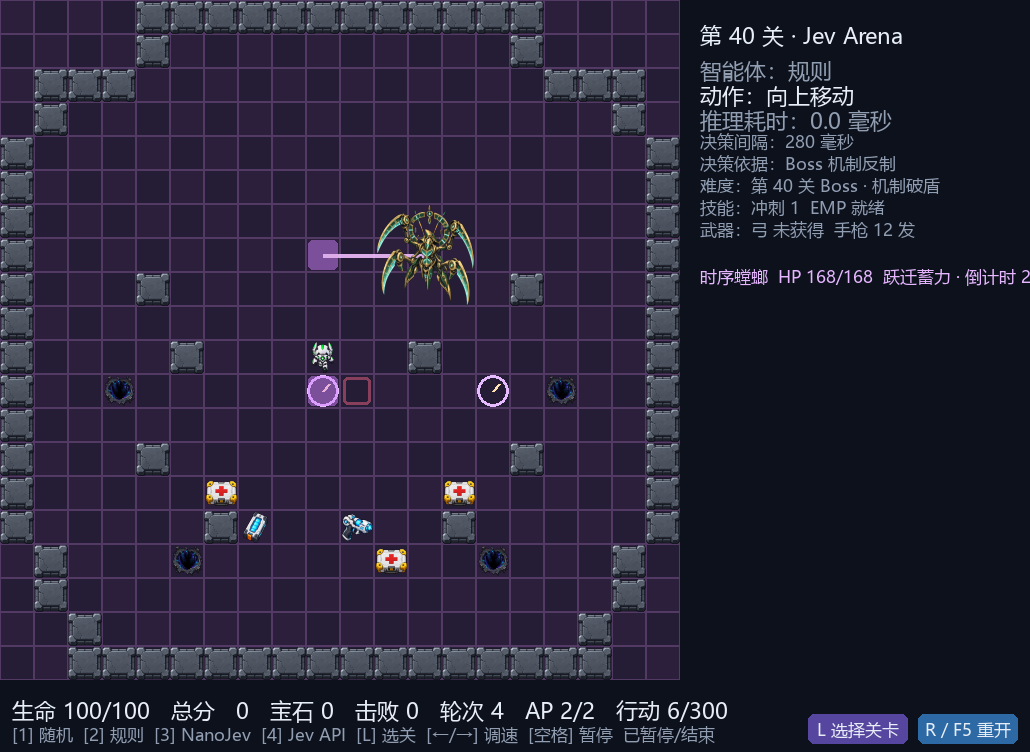
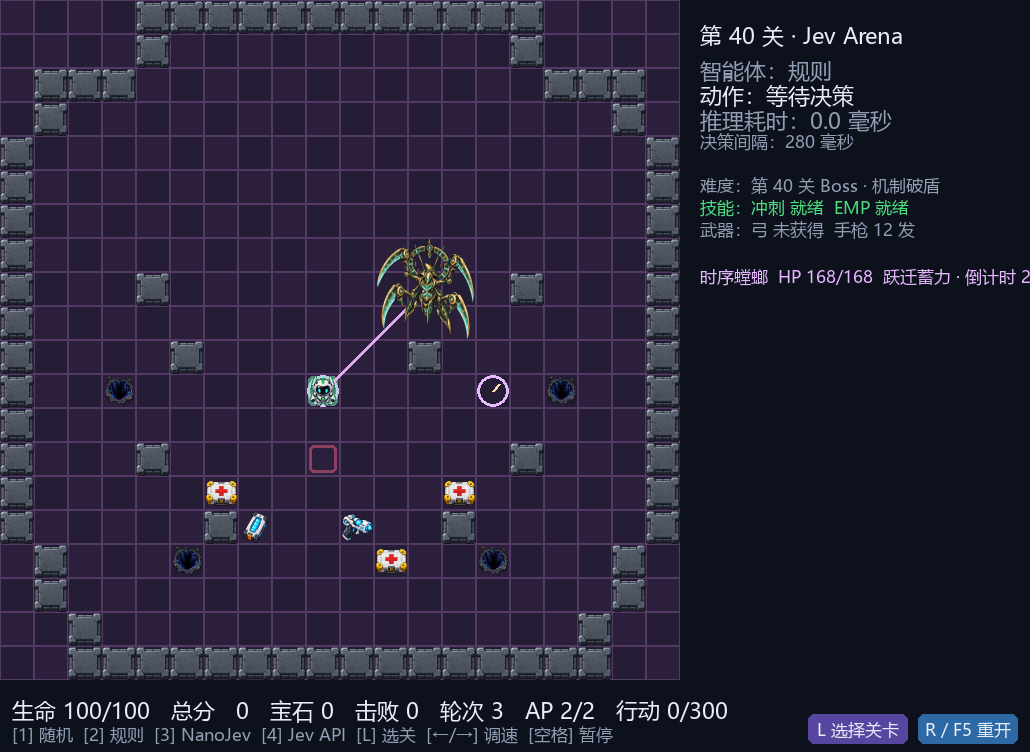
Make storm and mantis bosses more mobile

diff --git a/tests/test_boss.py b/tests/test_boss.py
@@ -232,6 +232,22 @@ class PrismBossTests(unittest.TestCase):
 
 
 class StormBossTests(unittest.TestCase):
+    def test_moves_to_distinct_chain_and_surge_positions_before_aim(self):
+        env = ArenaEnv(campaign_config(30))
+        env.player.position = (10, 10)
+        events = []
+        env._resolve_storm(env.boss, events)
+        self.assertIn("boss_move:10:5:8:5", events)
+        self.assertEqual(env.boss.target, (10, 10))
+        events.clear()
+        env._resolve_storm(env.boss, events)
+        self.assertEqual(env.boss.position, (8, 5))
+        self.assertFalse(any(event.startswith("boss_move:") for event in events))
+        events.clear()
+        env._resolve_storm(env.boss, events)
+        self.assertIn("boss_move:8:5:11:6", events)
+        self.assertIn("storm_aim:surge:10:10", events)
+
     def test_staggered_room_chain_warning_and_grounding(self):
         env = ArenaEnv(campaign_config(30))
         self.assertFalse(env.gems)
@@ -310,11 +326,11 @@ class ChronoBossTests(unittest.TestCase):
         right.player.position = (14, 11)
         right.step(Action.WAIT)
         right.step(Action.WAIT)
-        self.assertEqual(right.boss.position, (11, 7))
+        self.assertEqual(right.boss.position, (11, 8))
         self.assertEqual(right.boss.phase, "slash")
         right.step(Action.WAIT)
         right.step(Action.WAIT)
-        self.assertEqual(right.boss.leap_target, (14, 7))
+        self.assertEqual(right.boss.leap_target, (14, 11))
 
         left = ArenaEnv(campaign_config(40))
         left.round = 3
@@ -322,11 +338,11 @@ class ChronoBossTests(unittest.TestCase):
         left.boss.position = (9, 7)
         left.step(Action.WAIT)
         left.step(Action.WAIT)
-        self.assertEqual(left.boss.position, (11, 7))
+        self.assertEqual(left.boss.position, (11, 8))
         self.assertEqual(left.boss.phase, "flank")
         left.step(Action.WAIT)
         left.step(Action.WAIT)
-        self.assertEqual(left.boss.position, (12, 7))
+        self.assertEqual(left.boss.position, (12, 8))
         self.assertEqual(left.boss.phase, "slash")
 
     def test_room_leap_warning_and_anchor_counter(self):
@@ -335,31 +351,29 @@ class ChronoBossTests(unittest.TestCase):
         self.assertTrue((env.time_anchors | env.medkits | env.energy_cells) <= env._reachable_cells())
         self.assertIn("Boss chrono", encode_state(env))
         env.round = 3
-        env.player.position = (9, 11)
+        env.player.position = (9, 13)
         env.step(Action.WAIT)
         flank = env.step(Action.WAIT)
-        self.assertIn("boss_move:10:7:12:7", flank.events)
-        self.assertEqual(env.boss.slash_target, (9, 11))
+        self.assertIn("boss_move:10:7:12:8", flank.events)
+        self.assertEqual(env.boss.slash_target, (9, 13))
         self.assertIn(("chrono_mantis/slash", 24), env.imminent_threats())
-        env.step(Action.MOVE_S)
-        slash = env.step(Action.MOVE_S)
-        self.assertIn("chrono_leap_aim:9:7", slash.events)
-        self.assertEqual(env.boss.leap_countdown, 2)
-        self.assertEqual(env.boss.position, (12, 7))
-        self.assertEqual(env._distance(env.boss.position, env.boss.leap_target), 3)
         env.step(Action.DASH_N)
-        env.step(Action.WAIT)
+        slash = env.step(Action.WAIT)
+        self.assertIn("chrono_leap_aim:9:11", slash.events)
+        self.assertEqual(env.boss.leap_countdown, 2)
         self.assertEqual(env.boss.position, (12, 8))
-        self.assertEqual(env._distance(env.boss.position, env.boss.leap_target), 4)
+        env.step(Action.WAIT)
+        env.step(Action.WAIT)
+        self.assertEqual(env.boss.position, (12, 7))
         env.step(Action.WAIT)
         leap = env.step(Action.WAIT)
         self.assertIn("chrono_anchor", leap.events)
         self.assertIn("boss_shield_break", leap.events)
-        self.assertEqual(env.boss.position, (9, 7))
+        self.assertNotEqual(env.boss.position, env.player.position)
         self.assertEqual(env.player.hp, 100)
 
 
-    def test_occupied_leap_landing_is_cancelled_not_retargeted(self):
+    def test_occupied_leap_landing_hits_player_without_overlap(self):
         env = ArenaEnv(campaign_config(40))
         env.round = 3
         env.player.position = (9, 7)
@@ -370,11 +384,28 @@ class ChronoBossTests(unittest.TestCase):
         env.boss.slash_target = (10, 11)
         env.step(Action.WAIT)
         result = env.step(Action.WAIT)
-        self.assertIn("chrono_leap_cancel", result.events)
-        self.assertEqual(env.boss.position, (12, 7))
-        self.assertEqual(env.player.hp, 100)
+        self.assertIn("damage:chrono_leap:30", result.events)
+        self.assertNotEqual(env.boss.position, env.player.position)
+        self.assertEqual(env.player.hp, 70)
 
-    def test_slash_and_delayed_echo_match_warning(self):
+    def test_jump_targets_player_cell_then_lands_there_if_dodged(self):
+        env = ArenaEnv(campaign_config(40))
+        env.boss.phase = "slash"
+        env.boss.slash_target = (9, 11)
+        env.player.position = (10, 13)
+        events = []
+        env._resolve_chrono(env.boss, events)
+        self.assertEqual(env.boss.leap_target, (10, 13))
+        self.assertIn("chrono_leap_aim:10:13", events)
+        env.player.position = (11, 13)
+        env._resolve_chrono(env.boss, [])
+        events = []
+        env._resolve_chrono(env.boss, events)
+        self.assertEqual(env.boss.position, (10, 13))
+        self.assertEqual(env.player.hp, 100)
+        self.assertIn("chrono_leap:10:13", events)
+
+    def test_slash_and_delayed_jump_match_warning(self):
         env = ArenaEnv(campaign_config(40))
         env.round = 3
         env.boss.phase = "slash"
@@ -383,11 +414,11 @@ class ChronoBossTests(unittest.TestCase):
         env.step(Action.WAIT)
         slash = env.step(Action.WAIT)
         self.assertIn("damage:chrono_slash:24", slash.events)
-        self.assertIn(("chrono_mantis/echo", 18), env.imminent_threats())
+        self.assertIn(("chrono_mantis/leap", 30), env.imminent_threats())
         for _ in range(4):
             echo = env.step(Action.WAIT)
-        self.assertIn("damage:chrono_echo:18", echo.events)
-        self.assertEqual(env.player.hp, 58)
+        self.assertIn("damage:chrono_leap:30", echo.events)
+        self.assertEqual(env.player.hp, 46)
 
     def test_default_hybrid_policy_finishes_mantis_without_damage(self):
         env = ArenaEnv(campaign_config(40))
@@ -400,7 +431,7 @@ class ChronoBossTests(unittest.TestCase):
             events.extend(env.step(choice).events)
         self.assertTrue(env.done)
         self.assertEqual(env.player.hp, 100)
-        self.assertEqual(events.count("chrono_anchor"), 3)
+        self.assertGreaterEqual(events.count("chrono_anchor"), 2)
         self.assertIn("chrono_phase_two", events)
         self.assertIn("chrono_anchor_shift", events)
         self.assertIn("boss_defeated", events)
@@ -419,7 +450,7 @@ class ChronoBossTests(unittest.TestCase):
         self.assertTrue(env.time_anchors <= env._reachable_cells())
 
         env.boss.phase = "leap"
-        env.boss.leap_target = (9, 7)
+        env.boss.leap_target = (9, 13)
         env.boss.leap_countdown = 1
         env.player.position = (9, 13)
         env.step(Action.WAIT)

diff --git a/arena/env.py b/arena/env.py
@@ -1028,6 +1028,16 @@ class ArenaEnv:
             return 0.0
         if boss.target is None:
             boss.attack_kind = "chain" if boss.attacks % 2 == 0 else "surge"
+            previous = boss.position
+            player_x = self.player.position[0]
+            goal_x = min(12, max(8, player_x + (-2 if boss.attack_kind == "chain" else 2)))
+            speed = 2 if boss.attack_kind == "chain" else 3
+            x = boss.position[0] + max(-speed, min(speed, goal_x - boss.position[0]))
+            destination = (x, 5 if boss.attack_kind == "chain" else 6)
+            if destination != self.player.position:
+                boss.position = destination
+            if boss.position != previous:
+                events.append(f"boss_move:{previous[0]}:{previous[1]}:{boss.position[0]}:{boss.position[1]}")
             boss.target = self.player.position
             events.append(f"storm_aim:{boss.attack_kind}:{boss.target[0]}:{boss.target[1]}")
             return 0.0
@@ -1051,11 +1061,6 @@ class ArenaEnv:
                 reward += self._damage_entity(self.player, damage, events, "storm_surge")
         boss.attacks += 1
         boss.target = None
-        if not boss.exposed_rounds:
-            previous = boss.position
-            boss.position = ((10, 11, 9)[boss.attacks % 3], 5)
-            if previous != boss.position:
-                events.append(f"boss_move:{previous[0]}:{previous[1]}:{boss.position[0]}:5")
         return reward
 
     def _resolve_chrono(self, boss: ChronoMantis, events: list[str]) -> float:
@@ -1077,9 +1082,10 @@ class ArenaEnv:
             launch_x = 12 if self.chrono_landing_x() == 9 else 11
             delta = max(-2, min(2, launch_x - boss.position[0]))
             x = boss.position[0] + delta
-            y = (8 if boss.position[1] == 7 else 7) if not delta else boss.position[1]
+            goal_y = min(9, max(7, self.player.position[1] - 3))
+            y = boss.position[1] + (goal_y > boss.position[1]) - (goal_y < boss.position[1])
             if (x, y) == self.player.position:
-                y = 8 if y == 7 else 7
+                y = boss.position[1]
             boss.position = (x, y)
             boss.moves += 1
             if x != launch_x:
@@ -1096,7 +1102,7 @@ class ArenaEnv:
             events.append(f"chrono_slash:{target[0]}:{target[1]}")
             if self._distance(self.player.position, target) <= 1:
                 reward += self._damage_entity(self.player, boss.slash_damage, events, "chrono_slash")
-            boss.leap_target = (self.chrono_landing_x(), 7)
+            boss.leap_target = self.player.position
             boss.leap_countdown = 2
             boss.phase = "leap"
             events.append(f"chrono_leap_aim:{boss.leap_target[0]}:{boss.leap_target[1]}")
@@ -1104,27 +1110,32 @@ class ArenaEnv:
         if boss.leap_countdown > 1:
             boss.leap_countdown -= 1
             previous = boss.position
-            boss.position = (boss.position[0], 8)
+            boss.position = (boss.position[0], 7 if boss.position[1] >= 8 else 8)
             if previous != boss.position:
-                events.append(f"boss_move:{previous[0]}:{previous[1]}:{boss.position[0]}:8")
+                events.append(f"boss_move:{previous[0]}:{previous[1]}:{boss.position[0]}:{boss.position[1]}")
             events.append(f"chrono_leap_charge:{boss.leap_target[0]}:{boss.leap_target[1]}")
             return 0.0
-        if self.player.position == boss.leap_target:
-            boss.phase = "flank"
-            boss.slash_target = boss.leap_target = None
-            boss.leap_countdown = 0
-            events.append("chrono_leap_cancel")
-            return 0.0
         previous = boss.position
-        boss.position = boss.leap_target
+        target = boss.leap_target
+        occupied = self.player.position == target
+        if occupied:
+            neighbors = (self.add(target, direction) for direction in DIRECTIONS)
+            safe = (cell for cell in neighbors if self.in_bounds(cell) and
+                    cell not in self.walls | self.pits | self.fires | self.spikes and
+                    cell != self.player.position)
+            boss.position = min(safe, key=lambda cell: (self._distance(cell, previous), cell), default=previous)
+        else:
+            boss.position = target
         boss.moves += 1
-        events.append(f"boss_move:{previous[0]}:{previous[1]}:{boss.position[0]}:7")
-        events.append(f"chrono_leap:{boss.position[0]}:7")
+        events.append(f"boss_move:{previous[0]}:{previous[1]}:{boss.position[0]}:{boss.position[1]}")
+        events.append(f"chrono_leap:{target[0]}:{target[1]}")
         reward = 0.0
-        if self.player.position in self.time_anchors and self.player.position[0] == boss.position[0]:
+        if occupied and target in self.time_anchors:
             boss.exposed_rounds = 4
             events.extend(("chrono_anchor", "chrono_echo_replay", "boss_shield_break"))
             reward += 15
+        elif occupied:
+            reward += self._damage_entity(self.player, boss.leap_damage, events, "chrono_leap")
         elif self.player.position == boss.slash_target:
             reward += self._damage_entity(self.player, boss.echo_damage, events, "chrono_echo")
             events.append(f"chrono_echo:{boss.slash_target[0]}:{boss.slash_target[1]}")
@@ -1908,8 +1919,11 @@ class ArenaEnv:
         if isinstance(self.boss, ChronoMantis):
             if self.boss.phase == "slash" and self._distance(position, self.boss.slash_target) <= 1:
                 threats.append(("chrono_mantis/slash", self.boss.slash_damage))
-            if self.boss.phase == "leap" and position == self.boss.slash_target:
-                threats.append(("chrono_mantis/echo", self.boss.echo_damage))
+            if self.boss.phase == "leap":
+                if position == self.boss.leap_target and position not in self.time_anchors:
+                    threats.append(("chrono_mantis/leap", self.boss.leap_damage))
+                elif position == self.boss.slash_target and position != self.boss.leap_target:
+                    threats.append(("chrono_mantis/echo", self.boss.echo_damage))
         if isinstance(self.boss, VoidAngler) and self.boss.attack_kind == "beam" and self.boss.target:
             if self._distance(position, self.boss.target) <= 1:
                 threats.append(("void_angler/beam", self.boss.beam_damage))

diff --git a/arena/renderer.py b/arena/renderer.py
@@ -944,13 +944,14 @@ class ArenaRenderer:
                 color = (255, 105, 138, 125)
             elif boss.phase == "leap" and boss.leap_target:
                 target = boss.leap_target
-                cells = [target, (target[0], 11)]
+                cells = [target]
                 color = (208, 130, 255, 125)
             else:
                 return
             for cell in cells:
                 if env.in_bounds(cell):
-                    self.pg.draw.rect(overlay, color,
+                    tint = (116, 239, 188, 135) if boss.phase == "leap" and cell in env.time_anchors else color
+                    self.pg.draw.rect(overlay, tint,
                                       (cell[0] * self.CELL + 2, cell[1] * self.CELL + 2,
                                        self.CELL - 4, self.CELL - 4), border_radius=5)
             if boss.phase == "leap":
@@ -1137,10 +1138,10 @@ class ArenaRenderer:
             elif event == "chrono_phase_two": labels.append("时序螳螂进入二阶段！")
             elif event == "chrono_anchor_shift": labels.append("时间锚移到后方通道！")
             elif event.startswith("chrono_slash:"): labels.append("时序螳螂近斩！")
-            elif event.startswith("chrono_leap_aim:"): labels.append("跃迁落点已锁定：去对应时间锚！")
+            elif event.startswith("chrono_leap_aim:"): labels.append("跳杀锁定当前位置！离开紫格，或用时间锚反制！")
             elif event.startswith("chrono_leap_charge:"): labels.append("跃迁蓄力：落点不再改变！")
             elif event.startswith("chrono_leap:"): labels.append("时序螳螂跃迁！")
-            elif event == "chrono_leap_cancel": labels.append("落点被占据：跃迁取消！")
+            elif event.startswith("damage:chrono_leap:"): labels.append("跳杀命中！")
             elif event == "chrono_anchor": labels.append("时间锚已启动！")
             elif event == "chrono_echo_replay": labels.append("残影回放击中 Boss！")
             elif event.startswith("void_aim:mine:"): labels.append("引力雷预警：站稳紫色节点吸离装甲！")

diff --git a/arena/observation.py b/arena/observation.py
@@ -91,7 +91,8 @@ def encode_state(env: ArenaEnv) -> str:
                 f"stage={2 if env.boss.hp <= env.boss.max_hp * 2 // 3 else 1} "
                 f"phase={env.boss.phase} slash={env.boss.slash_target or '-'} "
                 f"leap={env.boss.leap_target or '-'} anchor={sorted(env.time_anchors)} "
-                f"dmg=slash{env.boss.slash_damage}/echo{env.boss.echo_damage}.")
+                f"dmg=slash{env.boss.slash_damage}/leap{env.boss.leap_damage}/"
+                f"echo{env.boss.echo_damage}.")
     elif isinstance(env.boss, VoidAngler):
         boss = (f" Boss void@{env.boss.position} hp={env.boss.hp} armor={len(env.boss.drained_nodes)}/3 "
                 f"exposed={env.boss.exposed_rounds} {env.boss.attack_kind} aim={env.boss.target or '-'} "

diff --git a/arena/boss.py b/arena/boss.py
@@ -60,6 +60,7 @@ class ChronoMantis:
     moves: int = 0
     slash_damage: int = 24
     echo_damage: int = 18
+    leap_damage: int = 30
 
 
 @dataclass

diff --git a/JEV_ARENA_BOSS_ROADMAP.md b/JEV_ARENA_BOSS_ROADMAP.md
@@ -33,8 +33,8 @@
 | ---: | --- | --- | --- |
 | 10 | 棱镜守卫悬浮平移最多 1 格，外圈盾瓣按移动方向旋转；反射柱固定 | 小型菱形棱镜弹每次 3 枚，先显示三条细线；大招激光有实线锁定、光束扫过和反射折角 | 护盾碎出金色镜片；反射命中时紫色核心裂纹逐次加深，第三次盾瓣打开 |
 | 20 | 熔炉三头机重踏 1 格，炉头分别抬起，禁止跨越冷却阀 | 三种炉头分别吐出火球、地面熔岩波和扇形火星；地面先标明持续燃烧的格子 | 装甲泛红并喷蒸汽；每次阀门回灌熄灭一个炉头，三头熄灭后核心熄火露出 |
-| 30 | 风暴合唱环悬浮换位 1 格，外围共鸣器按导电顺序点亮 | 闪电节点逐个弹出，连锁弧线按编号显示目标顺序；落雷先显示链路，再沿链路传播 | 单次接地时对应共鸣器暗下；四柱回灌时蓝白电弧反向流入主核 |
-| 40 | 时序螳螂每敌方回合沿可行路径横切最多 2 格，每三次移动可预告后跃迁 3～4 格；起点/经过格/终点分别显示残影和落影 | 弧形斩击波沿已标记格传播；延迟残影有数字倒计时，时间锚让虚线变实线 | 常规受击出现钟摆式回弹；自身残影命中后沙漏倒转、四把镰刀垂落 |
+| 30 | 风暴合唱环在连锁雷前横移最多 2 格、雷爆前横移最多 3 格，并切换悬浮高度 | 闪电节点逐个弹出，连锁弧线按编号显示目标顺序；落雷先显示链路，再沿链路传播 | 单次接地时对应共鸣器暗下；四柱回灌时蓝白电弧反向流入主核 |
+| 40 | 时序螳螂横切最多 2 格并纵向追近；跳杀锁定玩家原位置，起点/终点分别显示残影和落影 | 近斩与跳杀各自预告；跳杀目标若为时间锚显示绿色反制格 | 常规受击出现钟摆式回弹；自身残影命中后沙漏倒转、四把镰刀垂落 |
 | 50 | 虚空钓手在固定锚点间移动 1 格，引力范围先铺设同心环 | 独立的引力雷弹体落格后倒计时，牵引方向用箭头指明；引力旋涡只在结算格出现 | 引力吸走一块装甲就露出一块亮面，第三块脱落后中央黑核收缩并暴露 |
 | 60 | 钢铁园丁沿根系滑动 1 格；藤蔓生长有种子、芽、墙三帧状态 | 种子弹先落在空格，下一轮生根；焚烧射线沿藤蔓逐段传火，危险格逐格点亮 | 热回流使根系变焦黑，第四次回流后花瓣反折露出红色核心 |
 | 70 | 镜像炽天使对称横移 1 格，复制前展示玩家上一动作图标及镜像方向 | 镜片弹以菱形弹体沿折射线飞行；复制近战和 Dash 分别有刀光与双残影，起点和终点都预告 | 护盾锁被镜像攻击击中时对应机翼破裂；三锁后六翼收拢，胸核暴露 |
@@ -53,7 +53,7 @@
 | 10 | 棱镜守卫 | 168 | 直线激光、横扫与破坏掩体 | 诱导激光经反射柱命中核心 3 次/轮 | 棱镜反射爆裂 |
 | 20 | 熔炉三头机 | 105 | 熔岩波与短暂燃烧格 | 让三条火线依次击中冷却阀，蒸汽回灌使其过热停机 | 熔岩冲击波 |
 | 30 | 风暴合唱环 | 132 | 多目标连锁闪电与移动导电位 | 站位改变导电链，使闪电经过 4 个接地柱后回灌主核 | 连锁雷网 |
-| 40 | 时序螳螂 | 168 | 延迟斩击残影与二阶段后移时间锚 | 用时间锚固定残影，让下一轮斩击重放在 Boss 所在格 | 时序交叉斩 |
+| 40 | 时序螳螂 | 168 | 近斩后锁定玩家原位置跳杀 30，二阶段后移时间锚 | 站在时间锚上接跳，反制破盾 | 时序交叉斩 |
 | 50 | 虚空钓手 | 108 | 引力拉扯与锁定光束 | 引导引力雷命中 3 个引力节点，吸走外层装甲 | 引力漩涡 |
 | 60 | 钢铁园丁 | 108 | 荆棘墙改变路线 | 诱导焚烧线烧毁 4 条机械藤蔓并让热量回流核心 | 等离子荆棘绽放 |
 | 70 | 镜像炽天使 | 168 | 复制玩家上一动作 | 故意给出可控动作，使镜像攻击击碎 3 个护盾锁 | 镜片回旋爆裂 |
@@ -103,7 +103,7 @@
 
 ## 第 30 关：风暴合唱环
 
-当前可玩版本：Boss 生命 132，节点电弧伤害 14、高压雷爆伤害 26；雷链锁定玩家原位置，经过最多 4 座错位接地柱。玩家站在蓝色导电位接住完整四柱雷链，可无伤回灌破盾；核心开放 4 回合。生命降至三分之二后，下次护盾恢复时导电位移到两翼，高压雷爆伤害升到 30，范围保持不变以保留可躲路线。手枪与能量弹匣可在房内获取。默认混合策略通过固定场景无伤通关测试。下列更复杂的导体寻路与多目标分叉仍是后续扩展目标。
+当前可玩版本：Boss 生命 132，节点电弧伤害 14、高压雷爆伤害 26；雷链锁定玩家原位置，经过最多 4 座错位接地柱。Boss 会在连锁雷前向玩家左侧悬浮换位（最多横移 2 格）、在雷爆前向右侧更快压近（最多横移 3 格）并改变高度；瞄准后停步，预警链路不会漂移。玩家站在蓝色导电位接住完整四柱雷链，可无伤回灌破盾；核心开放 4 回合。生命降至三分之二后，下次护盾恢复时导电位移到两翼，高压雷爆伤害升到 30，范围保持不变以保留可躲路线。手枪与能量弹匣可在房内获取。默认混合策略通过固定场景无伤通关测试。下列更复杂的导体寻路与多目标分叉仍是后续扩展目标。
 
 - 闪电从 Boss 链向距离最近的导体，再继续寻找下一个目标。
 - 预警阶段完整显示链路顺序和最终落点。
@@ -113,10 +113,10 @@
 
 ## 第 40 关：时序螳螂
 
-当前可玩版本：Boss 生命 168；按玩家横向站位选择侧翼，沿通道每回合横切最多 2 格至起跳点，若距离不足则再走一回合；近斩锁定格及邻格伤害 24，旧目标格延迟残影伤害 18。跃迁落点横向相差 3 格、蓄力时再向前压 1 格，最后一跳曼哈顿距离 4 格；落点提前 2 回合公开，被玩家占据则取消。玩家在对应时间锚上接住跃迁，使残影回放破盾，核心开放 4 回合。降至三分之二血量后，时间锚从第 11 行后移到第 13 行，核心暴露期间 Boss 横移 1 格。房内提供手枪、能量弹匣与血包；弹药耗尽仍可近战补刀。规则代理和默认混合策略均已无伤通关。以下“绕掩体的主动追击”“更多佯攻”“残影多格组合”仍是后续增强，不代表已完成。
+当前可玩版本：Boss 生命 168；按玩家横向站位选择侧翼，每个追击回合横切最多 2 格、纵向追近 1 格；近斩锁定格及邻格伤害 24，旧目标格延迟残影伤害 18。近斩后将玩家当时所在格锁为跳杀落点，提前 2 个敌方回合预警，蓄力时再次跃动；玩家躲开则 Boss 落在旧目标格，玩家仍在目标格则 Boss 落于旁边并造成 30 点跳杀伤害，不与玩家重叠。若玩家在时间锚上接住这次跳杀，则反制伤害并破盾，核心开放 4 回合。降至三分之二血量后，时间锚从第 11 行后移到第 13 行，核心暴露期间 Boss 横移 1 格。房内提供手枪、能量弹匣与血包；弹药耗尽仍可近战补刀。规则代理和默认混合策略均已无伤通关。以下“绕掩体的主动追击”“更多佯攻”“残影多格组合”仍是后续增强，不代表已完成。
 
 - 定位为第一只真正的**高速追击 Boss**，不是给原有站桩 Boss 单纯加移速。普通追击每个敌方回合最多移动 2 格，可横切、绕掩体、短暂佯攻；始终沿可通行格走，不能穿墙、穿坑或贴在玩家格上。连续两次选同一侧翼后，下一次必须换侧或进入跃迁预告，避免原地左右抖动。
-- 每三次移动至多发动一次跃迁：先在地图上标出起点、穿越方向和 3～4 格外的落点，给玩家完整 1 个回合（2 AP）反应，下一敌方回合才移动。落点不能是玩家当前格；若落点被阻断，则取消跃迁并收招，不能临时改落点“追踪命中”。跃迁本身不造成伤害。
+- 近斩后锁定玩家当前格作为跳杀落点；先显示落点并给玩家完整反应时间，结算前不再追踪改点。玩家离开则 Boss 落在旧位置；玩家留在目标格则承受跳杀，Boss 落在相邻安全格；站在时间锚上接招可破盾。
 - 招式 A“追猎近斩”只打 Boss 面前 1 格，伤害 24；出刀前显示扇形预警。招式 B“时序残影”在已公开的目标格留下倒计时 2 的斩击，结算伤害 18；锁定后不再追踪玩家。两招不在同一回合叠加命中，同一格最多一层残影。
 - 玩家踩下房内时间锚，可将当前残影固定到 Boss **已预告的跃迁落点**；Boss 落地后，固定残影在下一拍回放击中 Boss，打开核心 4 回合。破盾后 Boss 明显减速并保留移动插值，给枪/弓输出窗口；窗口结束再进入追击阶段。
 - 房间为长短走廊交错的非矩形竞技场，至少两条绕行通道、两枚分开的时间锚，并提供手枪、弹药和血包。出生保护 2 回合；任何预警出现时至少有一条不用 Dash 的安全路线。高压感来自持续换位和抢时间锚，不来自瞬移贴脸或全屏必中。

diff --git a/JEV_ARENA_V2_ROADMAP.md b/JEV_ARENA_V2_ROADMAP.md
@@ -1849,7 +1849,7 @@ NanoJev 很快，但能力有限。
 
 第 20 关熔炉三头机已加入半血后二阶段：三列熔岩波、短暂燃烧格和开放窗口换位；火球与熔岩波独立预警、三座冷却阀破盾、大锻炉房间、熔岩边道、弓箭与血包补给均已接入，规则代理及默认 NanoJev 混合策略通过固定场景无伤通关验证。第 30 关风暴合唱环现有 132 点生命、错位接地柱和连锁闪电；降至三分之二血量后导电位移到两翼，雷爆伤害提高但范围不变，默认混合策略通过固定场景无伤通关。第 40 关时序螳螂现有横切、锁定近斩、预告跃迁、时间锚破盾与二阶段锚点后移。第 50 关虚空钓手已接入暗色异形房、引力雷/锁定光束、三节点吸离装甲与破盾输出窗口。第 60 关钢铁园丁已接入两轮生长的荆棘墙、焚烧线/荆棘爆发、四根盘热回流破盾。第 70 关镜像炽天使已接入延迟复制、镜像方向预警、三镜锁破盾与局部沉默。第 80 关攻城利维坦已接入双回合轨道炮、可移动/重建掩体、四锁破盾。第 90 关归零织机已接入四类动作轮换封锁、两回合预警的临时断裂地板和四个编号节点破盾。第 100 关顶点裁决者已接入四种基础招式、熔锁雷幕与镜冲引力两组同屏合招、终审判词的上诉反制；规则代理和默认混合策略均通过固定场景无伤通关。第 10～100 关 Boss 房轮廓与补给组合不重复；终章独立弹体、完整位移动画和专属结算尚未实装。
 
-第 40 关已补按玩家横向站位换侧、分段横切、跃迁蓄力前压、二阶段时间锚后移与核心开放时换位；弹药耗尽可近战补刀。下一步是绕掩体的深度追击、更多佯攻与残影组合。当前仍主要沿两条侧翼移动，具体制作标准见 `JEV_ARENA_BOSS_ROADMAP.md`。
+第 30 关已改为连锁雷前慢速侧移、雷爆前快速压近并改变高度，锁定后保持预警路径。第 40 关已补按玩家站位换侧、横切兼纵向追近、锁定玩家原位置的跳杀、二阶段时间锚后移与核心开放时换位；玩家若留在跳杀目标格将受伤，站在时间锚上接招则可破盾，弹药耗尽可近战补刀。下一步是绕掩体的深度追击、更多佯攻与残影组合，具体制作标准见 `JEV_ARENA_BOSS_ROADMAP.md`。
 
 ---
 
